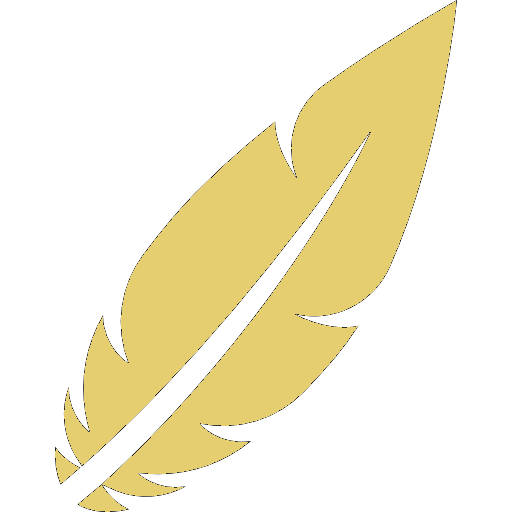
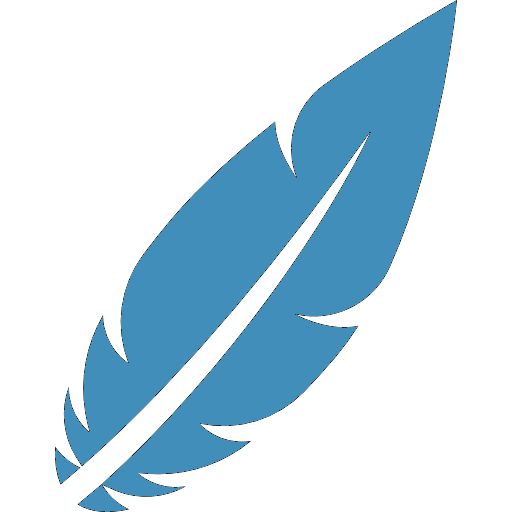
updated memoji and colour scheme. Changed highlight colour from gold to blue

Changed region(s): [[0.0938, 0.0, 0.9062, 1.0]]

diff --git a/assets/css/style.css b/assets/css/style.css
@@ -35,35 +35,35 @@
   ), hsl(240, 2%, 13%);
   --bg-gradient-yellow-1: linear-gradient(
     to bottom right, 
-    hsl(45, 100%, 71%) 0%, 
-    hsla(36, 100%, 69%, 0) 50%
+    hsl(202, 47%, 50%) 0%, 
+    hsla(202, 47%, 50%, 0) 50%
   );
   --bg-gradient-yellow-2: linear-gradient(
     135deg, 
-    hsla(45, 100%, 71%, 0.251) 0%, 
-    hsla(35, 100%, 68%, 0) 59.86%
+    hsla(202, 47%, 50%, 0.251) 0%, 
+    hsla(202, 47%, 50%, 0) 59.86%
   ), hsl(240, 2%, 13%);
   --border-gradient-onyx: linear-gradient(
     to bottom right, 
-    hsl(0, 0%, 25%) 0%, 
-    hsla(0, 0%, 25%, 0) 50%
+    hsl(0, 0%, 20%) 0%, /* Darker */
+    hsla(0, 0%, 30%, 0) 50% /* Lighter */
   );
   --text-gradient-yellow: linear-gradient(
     to right, 
-    hsl(45, 100%, 72%), 
-    hsl(35, 100%, 68%)
+    hsl(202, 47%, 50%), 
+    hsl(202, 47%, 50%)
   );
 
   /* solid */
   --jet: hsl(0, 0%, 22%);
   --onyx: hsl(240, 1%, 17%);
-  --eerie-black-1: hsl(240, 2%, 13%);
+  --eerie-black-1: hsl(0, 0%, 15%);
   --eerie-black-2: hsl(240, 2%, 12%);
   --smoky-black: hsl(0, 0%, 7%);
   --white-1: hsl(0, 0%, 100%);
   --white-2: hsl(0, 0%, 98%);
-  --orange-yellow-crayola: hsl(45, 100%, 72%);
-  --vegas-gold: hsl(45, 54%, 58%);
+  --orange-yellow-crayola: hsl(202, 47%, 50%);
+  --vegas-gold: hsl(202, 47%, 50%);
   --light-gray: hsl(0, 0%, 84%);
   --light-gray-70: hsla(0, 0%, 84%, 0.7);
   --bittersweet-shimmer: hsl(0, 43%, 51%);
